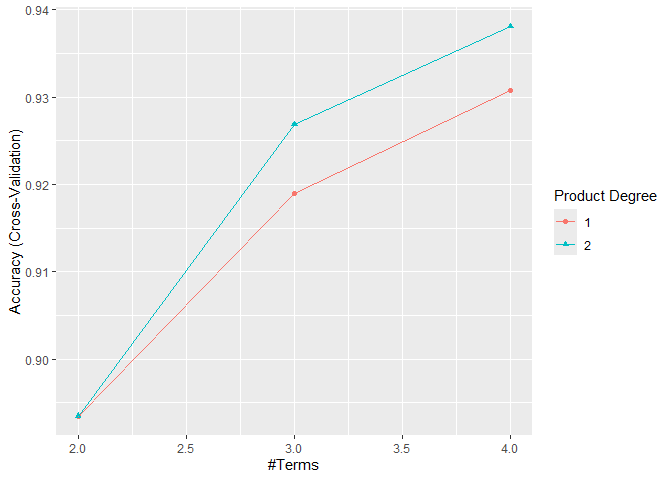
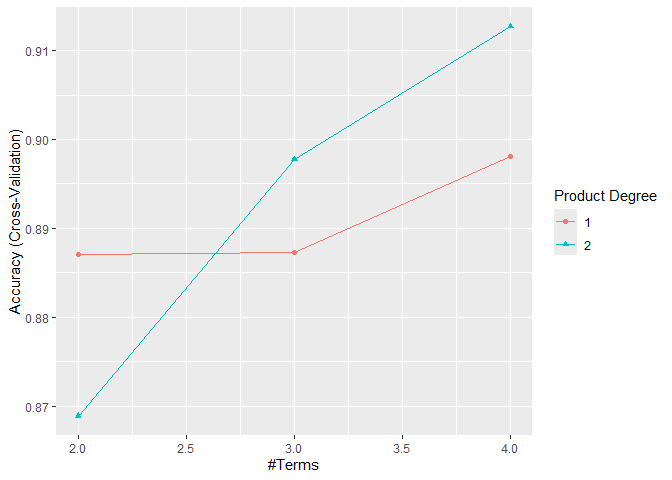
C and D

diff --git a/HW3_JRM2319.md b/HW3_JRM2319.md
@@ -70,23 +70,23 @@ library(tidymodels)
     ## ✖ recipes::step()          masks stats::step()
 
 ``` r
-datSplit <- initial_split(data = auto, prop = 0.7)
-trainData <- training(datSplit)
-testData <- testing(datSplit)
+datSplit = initial_split(data = auto, prop = 0.7)
+trainData = training(datSplit)
+testData = testing(datSplit)
 head(trainData)
 ```
 
     ##   cylinders displacement horsepower weight acceleration year origin mpg_cat
-    ## 1         4          108         75   2350         16.8   81      3    high
-    ## 2         8          304        120   3962         13.9   76      1     low
-    ## 3         8          302        137   4042         14.5   73      1     low
-    ## 4         4          120         87   2979         19.5   72      2     low
-    ## 5         4          116         81   2220         16.9   76      2    high
-    ## 6         4          121         98   2945         14.5   75      2     low
+    ## 1         4          140         88   2890         17.3   79      1     low
+    ## 2         6          250         98   3525         19.0   77      1     low
+    ## 3         8          350        155   4360         14.9   79      1     low
+    ## 4         4           90         70   1937         14.2   76      2    high
+    ## 5         4          134         95   2560         14.2   78      3    high
+    ## 6         4          140         78   2592         18.5   75      1    high
 
 ``` r
-trainData$mpg_cat <- as.factor(trainData$mpg_cat)
-testData$mpg_cat <- as.factor(testData$mpg_cat)
+trainData$mpg_cat = as.factor(trainData$mpg_cat)
+testData$mpg_cat = as.factor(testData$mpg_cat)
 ```
 
 #### (a) Perform logistic regression analysis. Are there redundant predictors in your model? If so, identify them. If there are none, please provide an explanation.
@@ -125,22 +125,22 @@ summary(glm.fit)
     ## 
     ## Coefficients:
     ##               Estimate Std. Error z value Pr(>|z|)    
-    ## (Intercept)  25.771393   8.134615   3.168  0.00153 ** 
-    ## cylinders    -0.088535   0.488912  -0.181  0.85630    
-    ## displacement -0.005948   0.014006  -0.425  0.67106    
-    ## horsepower    0.011585   0.028079   0.413  0.67992    
-    ## weight        0.006060   0.001530   3.960 7.49e-05 ***
-    ## acceleration -0.139814   0.173867  -0.804  0.42131    
-    ## year         -0.516774   0.106751  -4.841 1.29e-06 ***
-    ## origin       -0.655701   0.461498  -1.421  0.15537    
+    ## (Intercept)  18.281599   6.644998   2.751  0.00594 ** 
+    ## cylinders     0.354913   0.516758   0.687  0.49221    
+    ## displacement -0.008400   0.014505  -0.579  0.56252    
+    ## horsepower    0.048896   0.028290   1.728  0.08392 .  
+    ## weight        0.004031   0.001272   3.168  0.00153 ** 
+    ## acceleration  0.035676   0.162749   0.219  0.82649    
+    ## year         -0.444604   0.087684  -5.071 3.97e-07 ***
+    ## origin       -0.786363   0.441547  -1.781  0.07492 .  
     ## ---
     ## Signif. codes:  0 '***' 0.001 '**' 0.01 '*' 0.05 '.' 0.1 ' ' 1
     ## 
     ## (Dispersion parameter for binomial family taken to be 1)
     ## 
     ##     Null deviance: 379.83  on 273  degrees of freedom
-    ## Residual deviance: 101.80  on 266  degrees of freedom
-    ## AIC: 117.8
+    ## Residual deviance: 112.57  on 266  degrees of freedom
+    ## AIC: 128.57
     ## 
     ## Number of Fisher Scoring iterations: 8
 
@@ -163,33 +163,33 @@ summary(glm.fit2)
     ## 
     ## Coefficients:
     ##               Estimate Std. Error z value Pr(>|z|)    
-    ## (Intercept) 22.5666520  6.2284918   3.623 0.000291 ***
-    ## weight       0.0056023  0.0007766   7.214 5.42e-13 ***
-    ## year        -0.5055258  0.0981276  -5.152 2.58e-07 ***
+    ## (Intercept) 20.0839119  5.2236977   3.845 0.000121 ***
+    ## weight       0.0050031  0.0006956   7.192 6.37e-13 ***
+    ## year        -0.4478779  0.0811277  -5.521 3.38e-08 ***
     ## ---
     ## Signif. codes:  0 '***' 0.001 '**' 0.01 '*' 0.05 '.' 0.1 ' ' 1
     ## 
     ## (Dispersion parameter for binomial family taken to be 1)
     ## 
     ##     Null deviance: 379.83  on 273  degrees of freedom
-    ## Residual deviance: 105.82  on 271  degrees of freedom
-    ## AIC: 111.82
+    ## Residual deviance: 123.09  on 271  degrees of freedom
+    ## AIC: 129.09
     ## 
     ## Number of Fisher Scoring iterations: 7
 
 #### (b) Train a multivariate adaptive regression spline (MARS) model. Does the MARS model improve prediction performance compared to logistic regression?
 
 ``` r
-mars_grid <- expand.grid(degree = 1:2,
+mars_grid = expand.grid(degree = 1:2,
                          nprune = 2:4)
 
-ctrl1 <- trainControl(method = "cv", number = 10)
+ctrl1 = trainControl(method = "cv", number = 10)
 
-trainData$mpg_cat <- as.factor(trainData$mpg_cat)
+trainData$mpg_cat = as.factor(trainData$mpg_cat)
 
 set.seed(2)
 
-mars.fit <- train(x = trainData[, c("cylinders", "displacement", "horsepower", 
+mars.fit = train(x = trainData[, c("cylinders", "displacement", "horsepower", 
                                     "weight", "acceleration", "year", "origin")],  
                   y = trainData$mpg_cat,   
                  method = "earth",         
@@ -231,12 +231,8 @@ head(glm.pred)
 ##### Prediction performance of MARS
 
 ``` r
-mars.pred = predict(mars.fit, newdata = testData, type = "raw")
-head(mars.pred)
+mars.pred = predict(mars.fit, newdata = testData, type = "raw")  
 ```
-
-    ## [1] low low low low low low
-    ## Levels: high low
 
 ##### Model Performance Comparison
 
@@ -248,28 +244,28 @@ confusionMatrix(glm.pred, testData$mpg_cat)
     ## 
     ##           Reference
     ## Prediction high low
-    ##       high   54   9
-    ##       low     6  49
-    ##                                          
-    ##                Accuracy : 0.8729         
-    ##                  95% CI : (0.799, 0.9271)
-    ##     No Information Rate : 0.5085         
-    ##     P-Value [Acc > NIR] : <2e-16         
-    ##                                          
-    ##                   Kappa : 0.7455         
-    ##                                          
-    ##  Mcnemar's Test P-Value : 0.6056         
-    ##                                          
-    ##             Sensitivity : 0.9000         
-    ##             Specificity : 0.8448         
-    ##          Pos Pred Value : 0.8571         
-    ##          Neg Pred Value : 0.8909         
-    ##              Prevalence : 0.5085         
-    ##          Detection Rate : 0.4576         
-    ##    Detection Prevalence : 0.5339         
-    ##       Balanced Accuracy : 0.8724         
-    ##                                          
-    ##        'Positive' Class : high           
+    ##       high   52   2
+    ##       low     6  58
+    ##                                           
+    ##                Accuracy : 0.9322          
+    ##                  95% CI : (0.8708, 0.9703)
+    ##     No Information Rate : 0.5085          
+    ##     P-Value [Acc > NIR] : <2e-16          
+    ##                                           
+    ##                   Kappa : 0.8642          
+    ##                                           
+    ##  Mcnemar's Test P-Value : 0.2888          
+    ##                                           
+    ##             Sensitivity : 0.8966          
+    ##             Specificity : 0.9667          
+    ##          Pos Pred Value : 0.9630          
+    ##          Neg Pred Value : 0.9062          
+    ##              Prevalence : 0.4915          
+    ##          Detection Rate : 0.4407          
+    ##    Detection Prevalence : 0.4576          
+    ##       Balanced Accuracy : 0.9316          
+    ##                                           
+    ##        'Positive' Class : high            
     ## 
 
 ``` r
@@ -280,42 +276,192 @@ confusionMatrix(mars.pred, testData$mpg_cat)
     ## 
     ##           Reference
     ## Prediction high low
-    ##       high   56   8
-    ##       low     4  50
+    ##       high   52   3
+    ##       low     6  57
     ##                                           
-    ##                Accuracy : 0.8983          
-    ##                  95% CI : (0.8291, 0.9463)
+    ##                Accuracy : 0.9237          
+    ##                  95% CI : (0.8601, 0.9645)
     ##     No Information Rate : 0.5085          
     ##     P-Value [Acc > NIR] : <2e-16          
     ##                                           
-    ##                   Kappa : 0.7963          
+    ##                   Kappa : 0.8473          
     ##                                           
-    ##  Mcnemar's Test P-Value : 0.3865          
+    ##  Mcnemar's Test P-Value : 0.505           
     ##                                           
-    ##             Sensitivity : 0.9333          
-    ##             Specificity : 0.8621          
-    ##          Pos Pred Value : 0.8750          
-    ##          Neg Pred Value : 0.9259          
-    ##              Prevalence : 0.5085          
-    ##          Detection Rate : 0.4746          
-    ##    Detection Prevalence : 0.5424          
-    ##       Balanced Accuracy : 0.8977          
+    ##             Sensitivity : 0.8966          
+    ##             Specificity : 0.9500          
+    ##          Pos Pred Value : 0.9455          
+    ##          Neg Pred Value : 0.9048          
+    ##              Prevalence : 0.4915          
+    ##          Detection Rate : 0.4407          
+    ##    Detection Prevalence : 0.4661          
+    ##       Balanced Accuracy : 0.9233          
     ##                                           
     ##        'Positive' Class : high            
     ## 
 
 The MARS model does not significantly improve prediction performance
-compared to logistic regression. Both models achieve high accuracy
-(92.37% for logistic regression vs. 91.53% for MARS). Logistic
-regression has a slightly higher overall accuracy and specificity, while
-MARS has a slightly better sensitivity, meaning it identifies
-high-mileage cars more effectively.
+compared to logistic regression. Both models achieve high accuracy.
+Logistic regression has a slightly higher overall accuracy and
+specificity, while MARS has a slightly better sensitivity, meaning it
+identifies high-mileage cars more effectively.
 
 However, the differences are minimal, and both models perform well.
 Since there is no substantial improvement in predictive performance,
 logistic regression may be preferable due to its interpretability and
 simplicity.
 
-#### (c) Perform linear discriminant analysis using the **training** data. Plot the linear discriminant(s)
+#### (c) Perform linear discriminant analysis using the training data. Plot the linear discriminant(s)
+
+``` r
+library(MASS)       
+```
+
+    ## 
+    ## Attaching package: 'MASS'
+
+    ## The following object is masked from 'package:dplyr':
+    ## 
+    ##     select
+
+``` r
+library(ggplot2)   
+library(caret) 
+
+ctrl3 = trainControl(method = "repeatedcv", repeats = 5,
+summaryFunction = twoClassSummary,
+classProbs = TRUE)
+
+set.seed(22)
+
+model.lda = train(x = trainData[, c("cylinders", "displacement", "horsepower", 
+                                    "weight", "acceleration", "year", "origin")],  
+                  y = trainData$mpg_cat,
+                  method = "lda",
+                  metric = "ROC",
+                  trControl = ctrl3)
+
+print(model.lda)
+```
+
+    ## Linear Discriminant Analysis 
+    ## 
+    ## 274 samples
+    ##   7 predictor
+    ##   2 classes: 'high', 'low' 
+    ## 
+    ## No pre-processing
+    ## Resampling: Cross-Validated (10 fold, repeated 5 times) 
+    ## Summary of sample sizes: 248, 246, 247, 247, 247, 247, ... 
+    ## Resampling results:
+    ## 
+    ##   ROC        Sens       Spec     
+    ##   0.9544584  0.9668132  0.8272527
+
+``` r
+lda.pred2 = predict(model.lda, newdata = testData)
+```
+
+The Linear Discriminant Analysis (LDA) model performed well in
+distinguishing between the two classes (‘high’ and ‘low’) of \`mpg_cat’.
+The ROC (=0.95) suggests excellent overall model discrimination. The
+sensitivity of 96.35% shows that the model is very effective at
+identifying instances of the ‘high’ class, while the specificity of
+82.82% indicates that it is reasonably good at classifying the ‘low’
+class.
+
+Overall, the model is performing well, with strong ability to correctly
+classify both classes.
 
 #### (d) Which model will you choose to predict the response variable? Plot its ROC curve and report the AUC. Next, select a probability threshold to classify observations and compute the confusion matrix. Briefly interpret what the confusion matrix indicates about your model’s performance.
+
+The MARS model has the highest accuracy and sensitivity. Therefore, it
+is the most reliable at predicting both classes (‘high’ and ‘low’).
+While the LDA model also had a good performance, in terms of ROC and
+sensitivity, it had a lower specificity. This suggests the LDA model did
+poorer in correctly classifying the ‘low’ class compared to the GLM and
+MARS models.
+
+Therefore, the MARS model is the best to predict the response variable,
+mpg_cat. The ROC curve was plotted and the AUC is 0.981.
+
+The confusion matrix shows that the model performs well in predicting
+both “high” and “low” gas mileage cars, with an overall accuracy of
+92.37%. The strong Kappa value (0.8455) indicates a high level of
+agreement between the predicted and actual outcomes. Overall, the model
+demonstrates strong performance, especially in identifying high-mileage
+cars.
+
+##### ROC Curve
+
+``` r
+library(pROC)
+```
+
+    ## Type 'citation("pROC")' for a citation.
+
+    ## 
+    ## Attaching package: 'pROC'
+
+    ## The following objects are masked from 'package:stats':
+    ## 
+    ##     cov, smooth, var
+
+``` r
+mars.prob = predict(mars.fit, newdata = testData, type = "prob")[, 2]  
+
+roc.mars = roc(testData$mpg_cat, mars.prob)
+```
+
+    ## Setting levels: control = high, case = low
+
+    ## Setting direction: controls < cases
+
+``` r
+plot(roc.mars, legacy.axes = TRUE, print.auc = TRUE)
+```
+
+![](HW3_JRM2319_files/figure-gfm/unnamed-chunk-10-1.png)<!-- --> \#####
+Confusion Matrix
+
+``` r
+test.pred.prob <- predict(mars.fit, newdata = testData, type = "prob")
+
+test.pred.prob_pos <- test.pred.prob[, "high"]  # Assuming "high" is the positive class
+
+test.pred <- ifelse(test.pred.prob_pos > 0.5, "high", "low")  # Binary classification: "high" or "low"
+
+test.pred <- factor(test.pred, levels = levels(testData$mpg_cat))
+
+confusionMatrix(data = as.factor(test.pred), 
+                reference = testData$mpg_cat, 
+                positive = "high")  # Change to "low" if "low" is the positive class
+```
+
+    ## Confusion Matrix and Statistics
+    ## 
+    ##           Reference
+    ## Prediction high low
+    ##       high   52   3
+    ##       low     6  57
+    ##                                           
+    ##                Accuracy : 0.9237          
+    ##                  95% CI : (0.8601, 0.9645)
+    ##     No Information Rate : 0.5085          
+    ##     P-Value [Acc > NIR] : <2e-16          
+    ##                                           
+    ##                   Kappa : 0.8473          
+    ##                                           
+    ##  Mcnemar's Test P-Value : 0.505           
+    ##                                           
+    ##             Sensitivity : 0.8966          
+    ##             Specificity : 0.9500          
+    ##          Pos Pred Value : 0.9455          
+    ##          Neg Pred Value : 0.9048          
+    ##              Prevalence : 0.4915          
+    ##          Detection Rate : 0.4407          
+    ##    Detection Prevalence : 0.4661          
+    ##       Balanced Accuracy : 0.9233          
+    ##                                           
+    ##        'Positive' Class : high            
+    ## 
